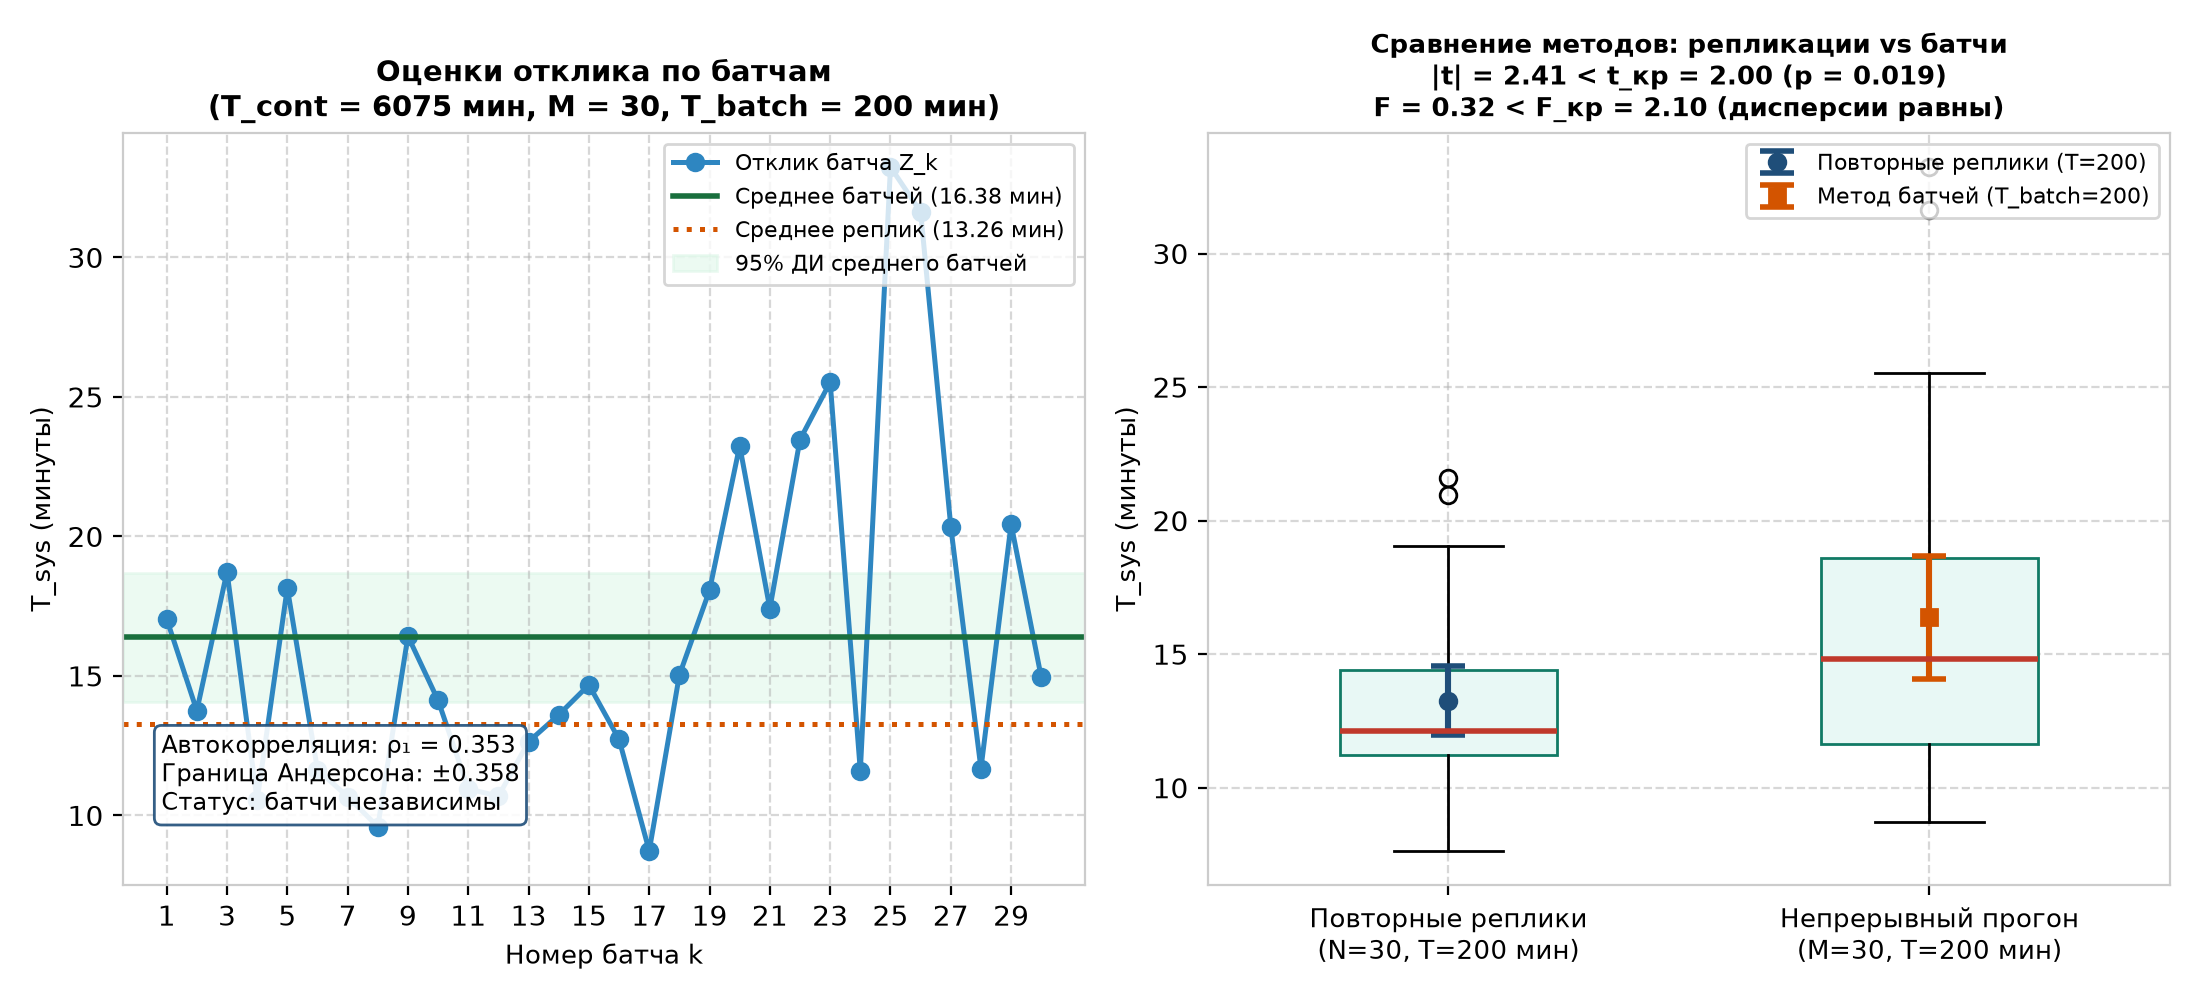
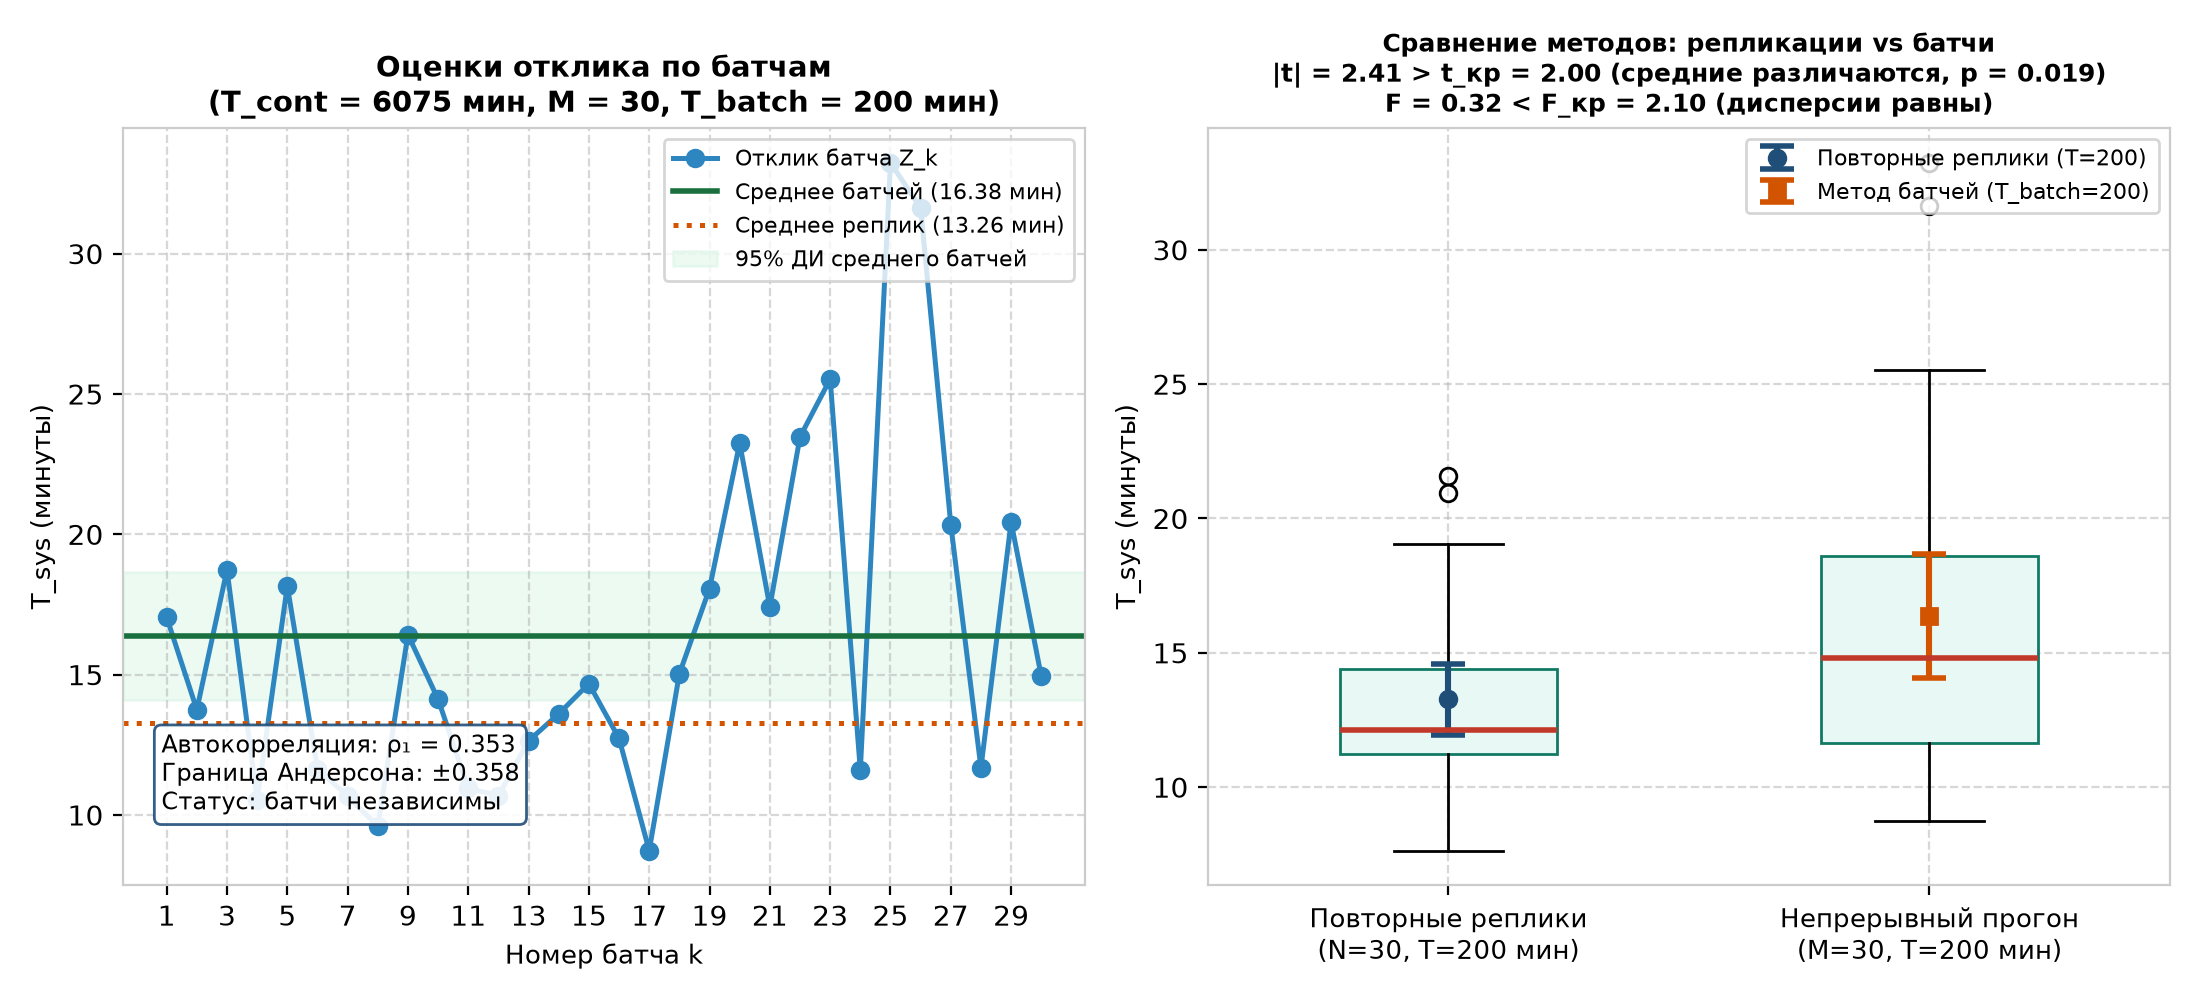
feat: expand plot 3.5

diff --git a/lab3/plotter.py b/lab3/plotter.py
@@ -346,8 +346,13 @@ def plot_task_1_5(
     ax2.set_xticks([1, 2])
     ax2.set_xticklabels([f"Повторные реплики\n(N={n_rep}, T={batch_size:.0f} мин)",
                          f"Непрерывный прогон\n(M={n_batches}, T={batch_size:.0f} мин)"], fontsize=9.5)
-    ax2.set_title(f"Сравнение методов: репликации vs батчи\n|t| = {abs(t_stat_comp):.2f} < t_кр = {t_crit_comp:.2f} (p = {t_p_comp:.3f})\nF = {f_stat:.2f} < F_кр = {f_crit:.2f} (дисперсии равны)",
-                  fontsize=9.5, fontweight="bold")
+    t_op = "<" if abs(t_stat_comp) < t_crit_comp else ">"
+    t_conclusion = "средние равны" if abs(t_stat_comp) < t_crit_comp else "средние различаются"
+    f_op = "<" if f_stat < f_crit else ">"
+    f_conclusion = "дисперсии равны" if f_stat < f_crit else "дисперсии не равны"
+
+    ax2.set_title(f"Сравнение методов: репликации vs батчи\n|t| = {abs(t_stat_comp):.2f} {t_op} t_кр = {t_crit_comp:.2f} ({t_conclusion}, p = {t_p_comp:.3f})\nF = {f_stat:.2f} {f_op} F_кр = {f_crit:.2f} ({f_conclusion})",
+                  fontsize=9.0, fontweight="bold")
     ax2.set_ylabel("T_sys (минуты)", fontsize=9.5)
     ax2.grid(True, linestyle="--", alpha=0.5)
     ax2.legend(loc="upper right", fontsize=8.0)
